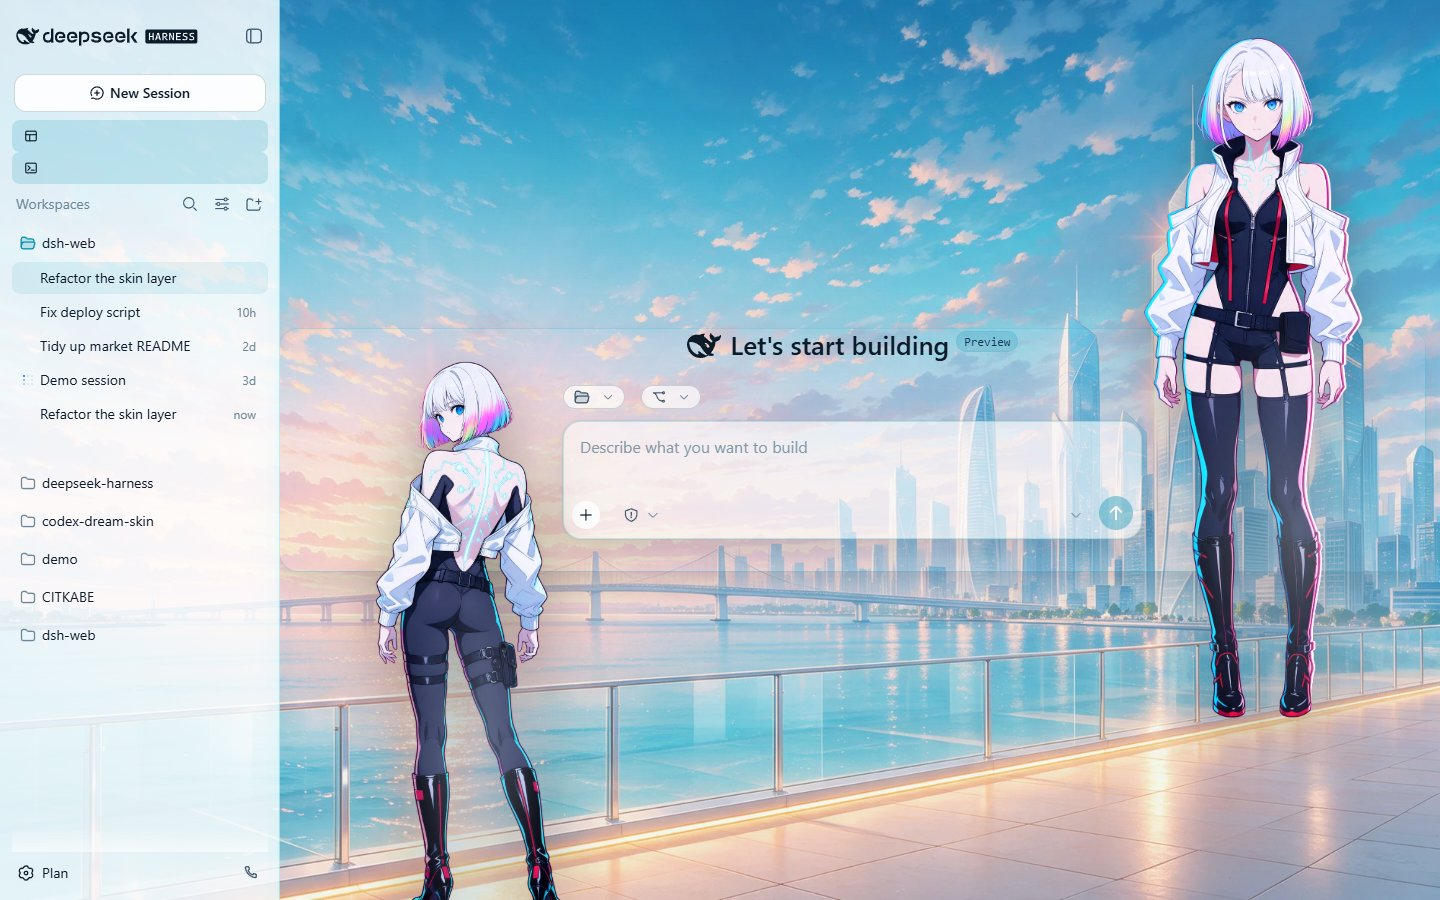
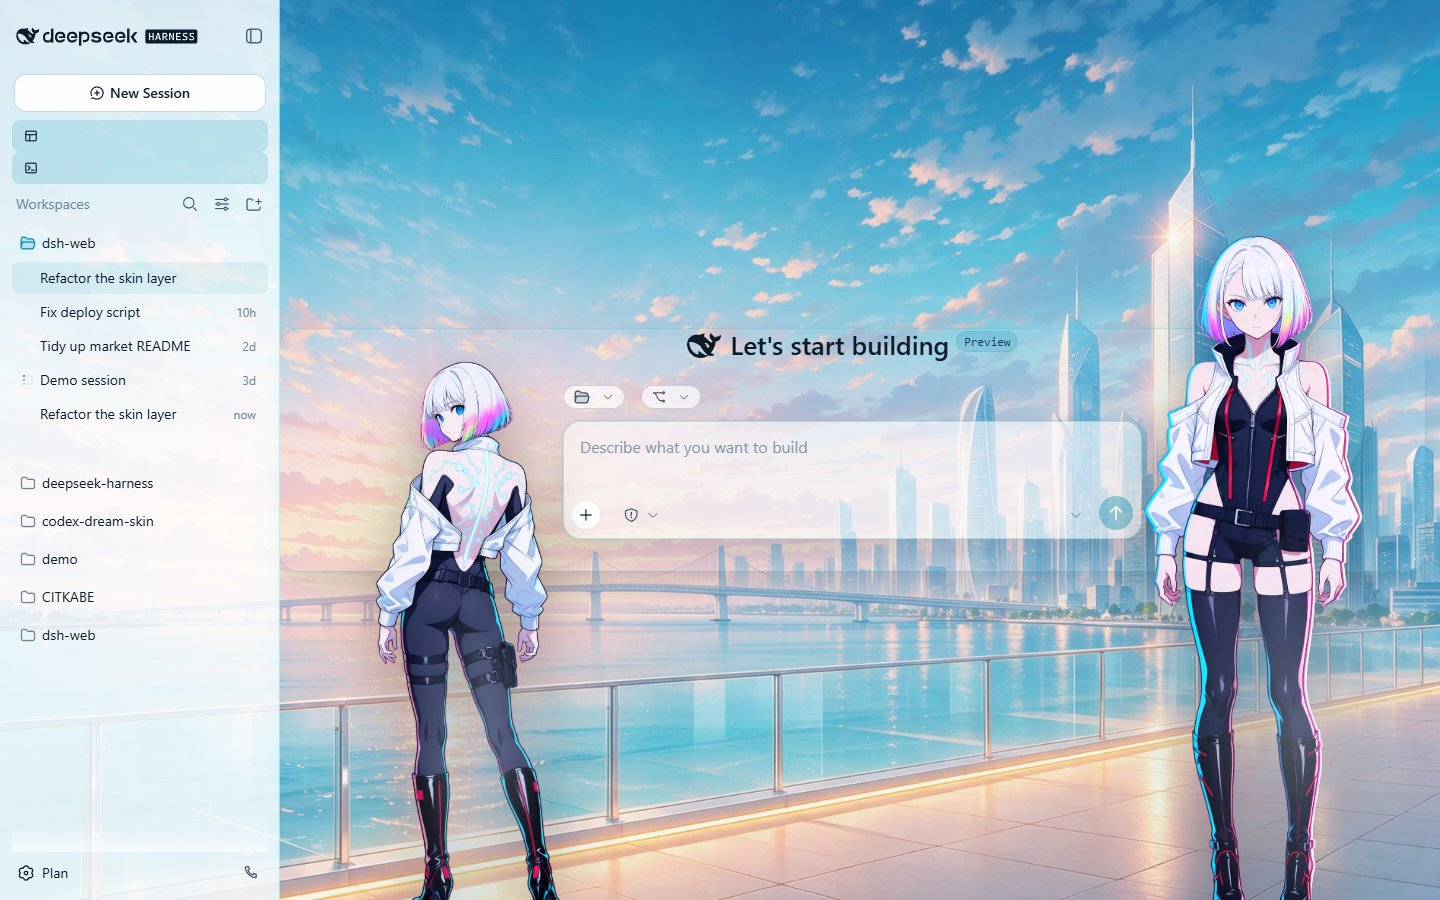
fix(skin): let the whale widget keep the corner, feet back on the bottom edge
The widget root (dsh-whale-widget) is position:fixed with z-index 9999 and mounts on <body>, i.e. the same stacking context as the skin's body::before/::after. At an equal z-index the tie goes to tree order, and a pseudo-element box is the last child, so the portraits won and painted over the widget's bubble.

The portraits drop to z-index 900 - still above every shell surface (the frame's own layers are 15-40) but below the pet, so the bubble and the character stay readable on top. The baseline raise from the previous commit is reverted: the right portrait stands on the bottom edge again. Verified against a facade variant whose mock widget boxes sit at z-index 9999.

Changed region(s): [[0.7812, 0.0311, 0.9688, 1.0]]

diff --git a/skins/lucy-nightsignal/patches.css b/skins/lucy-nightsignal/patches.css
@@ -93,7 +93,11 @@ body:before,
 body:after {
   content: "";
   position: fixed;
-  z-index: 9999;
+  /* Above every shell surface (the frame's own layers are 15-40) but below the
+     whale-widget root, which is fixed at z-index 9999 on <body>: an equal value
+     loses the tie to a pseudo-element (last child box), so the pet and its bubble
+     would be painted over. */
+  z-index: 900;
   bottom: clamp(-30px, -2vh, -10px);
   pointer-events: none;
   background-repeat: no-repeat, no-repeat;
@@ -122,7 +126,6 @@ body:before {
 body:after {
   left: 80vw;
   left: anchor(--lucy-composer right, 80vw);
-  bottom: clamp(150px, 20vh, 210px);
   height: clamp(460px, 76vh, 1040px);
   aspect-ratio: 915 / 1800;
   width: auto;
